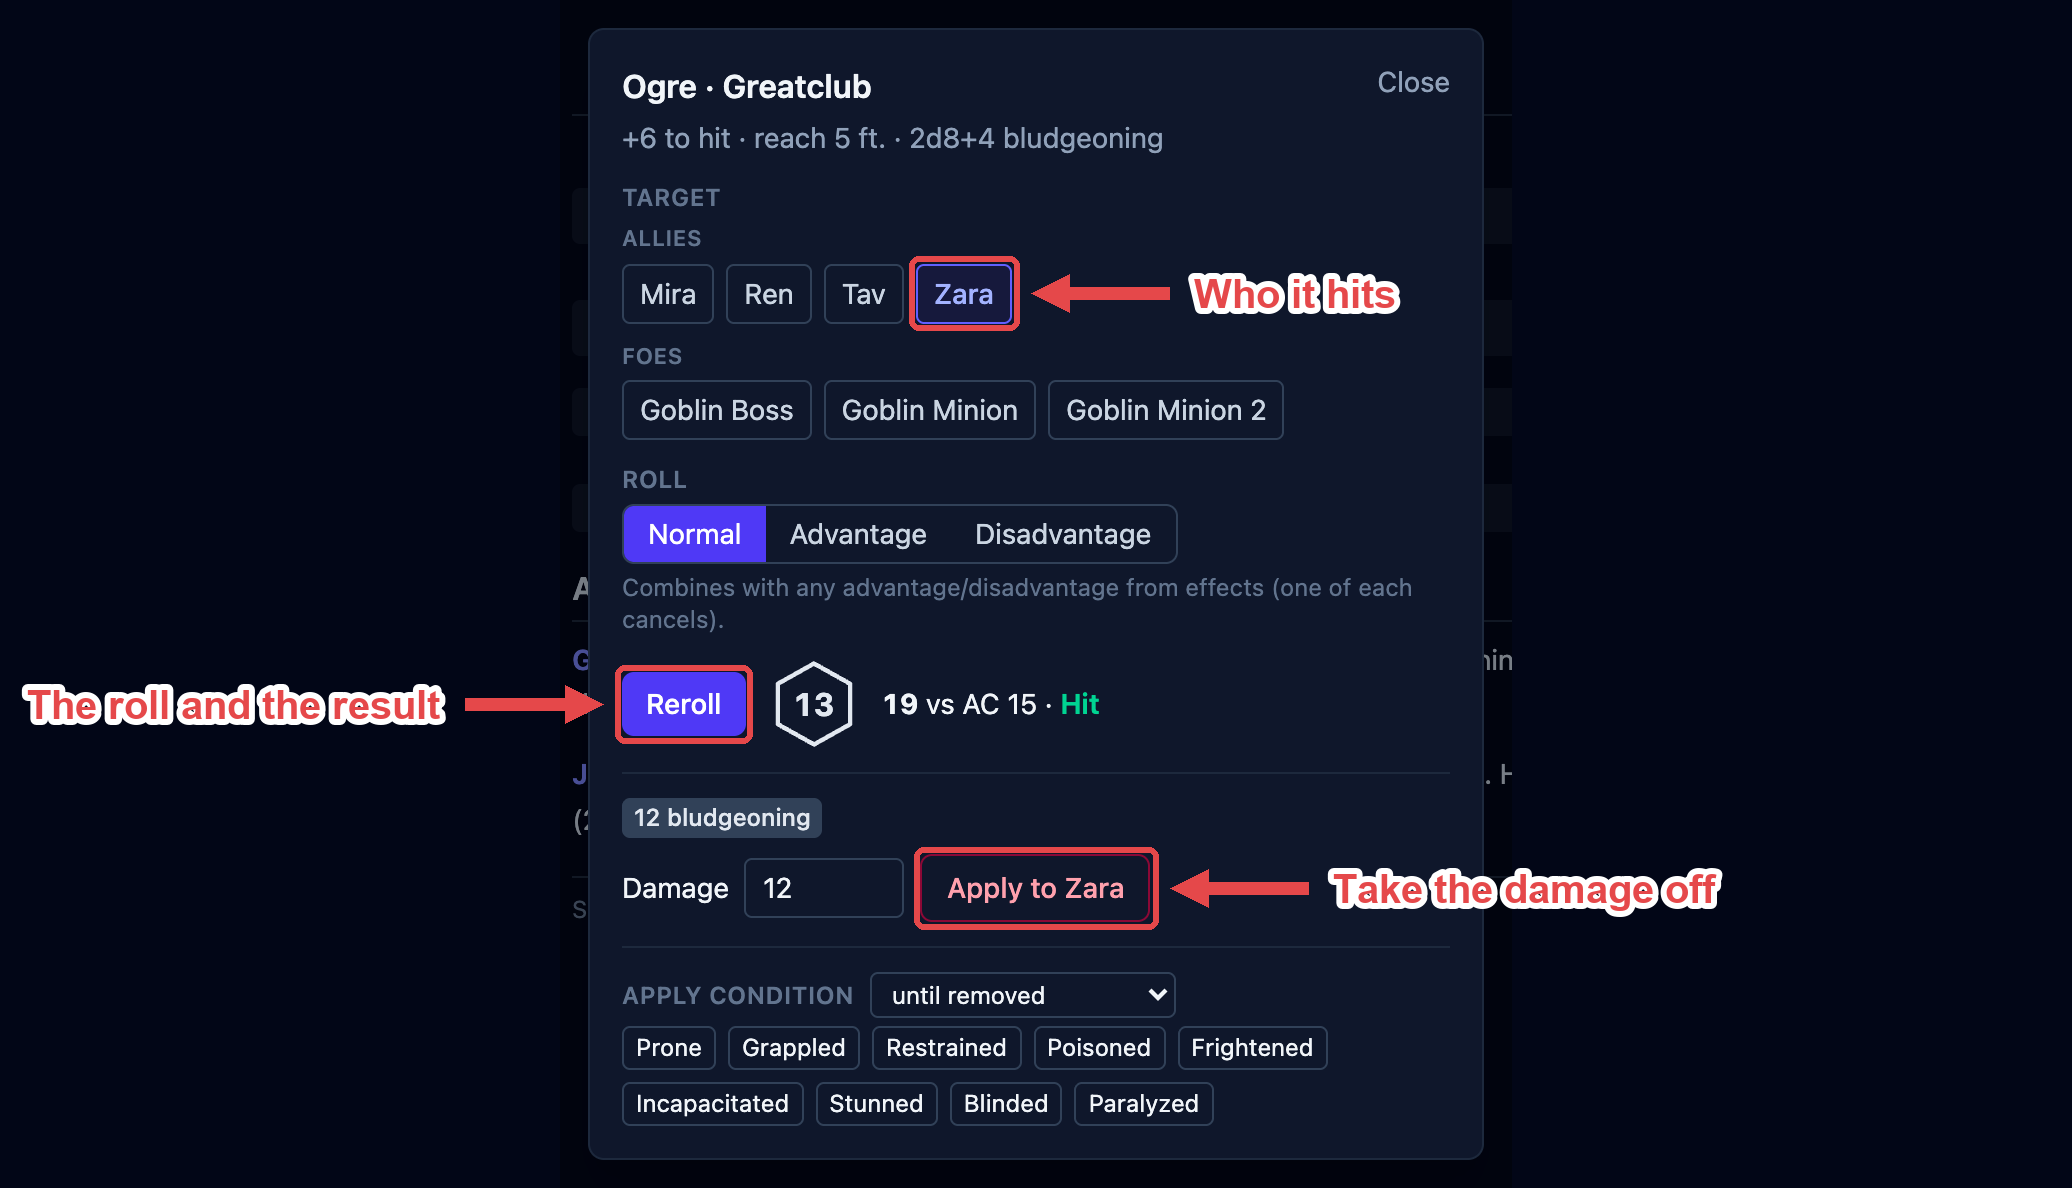
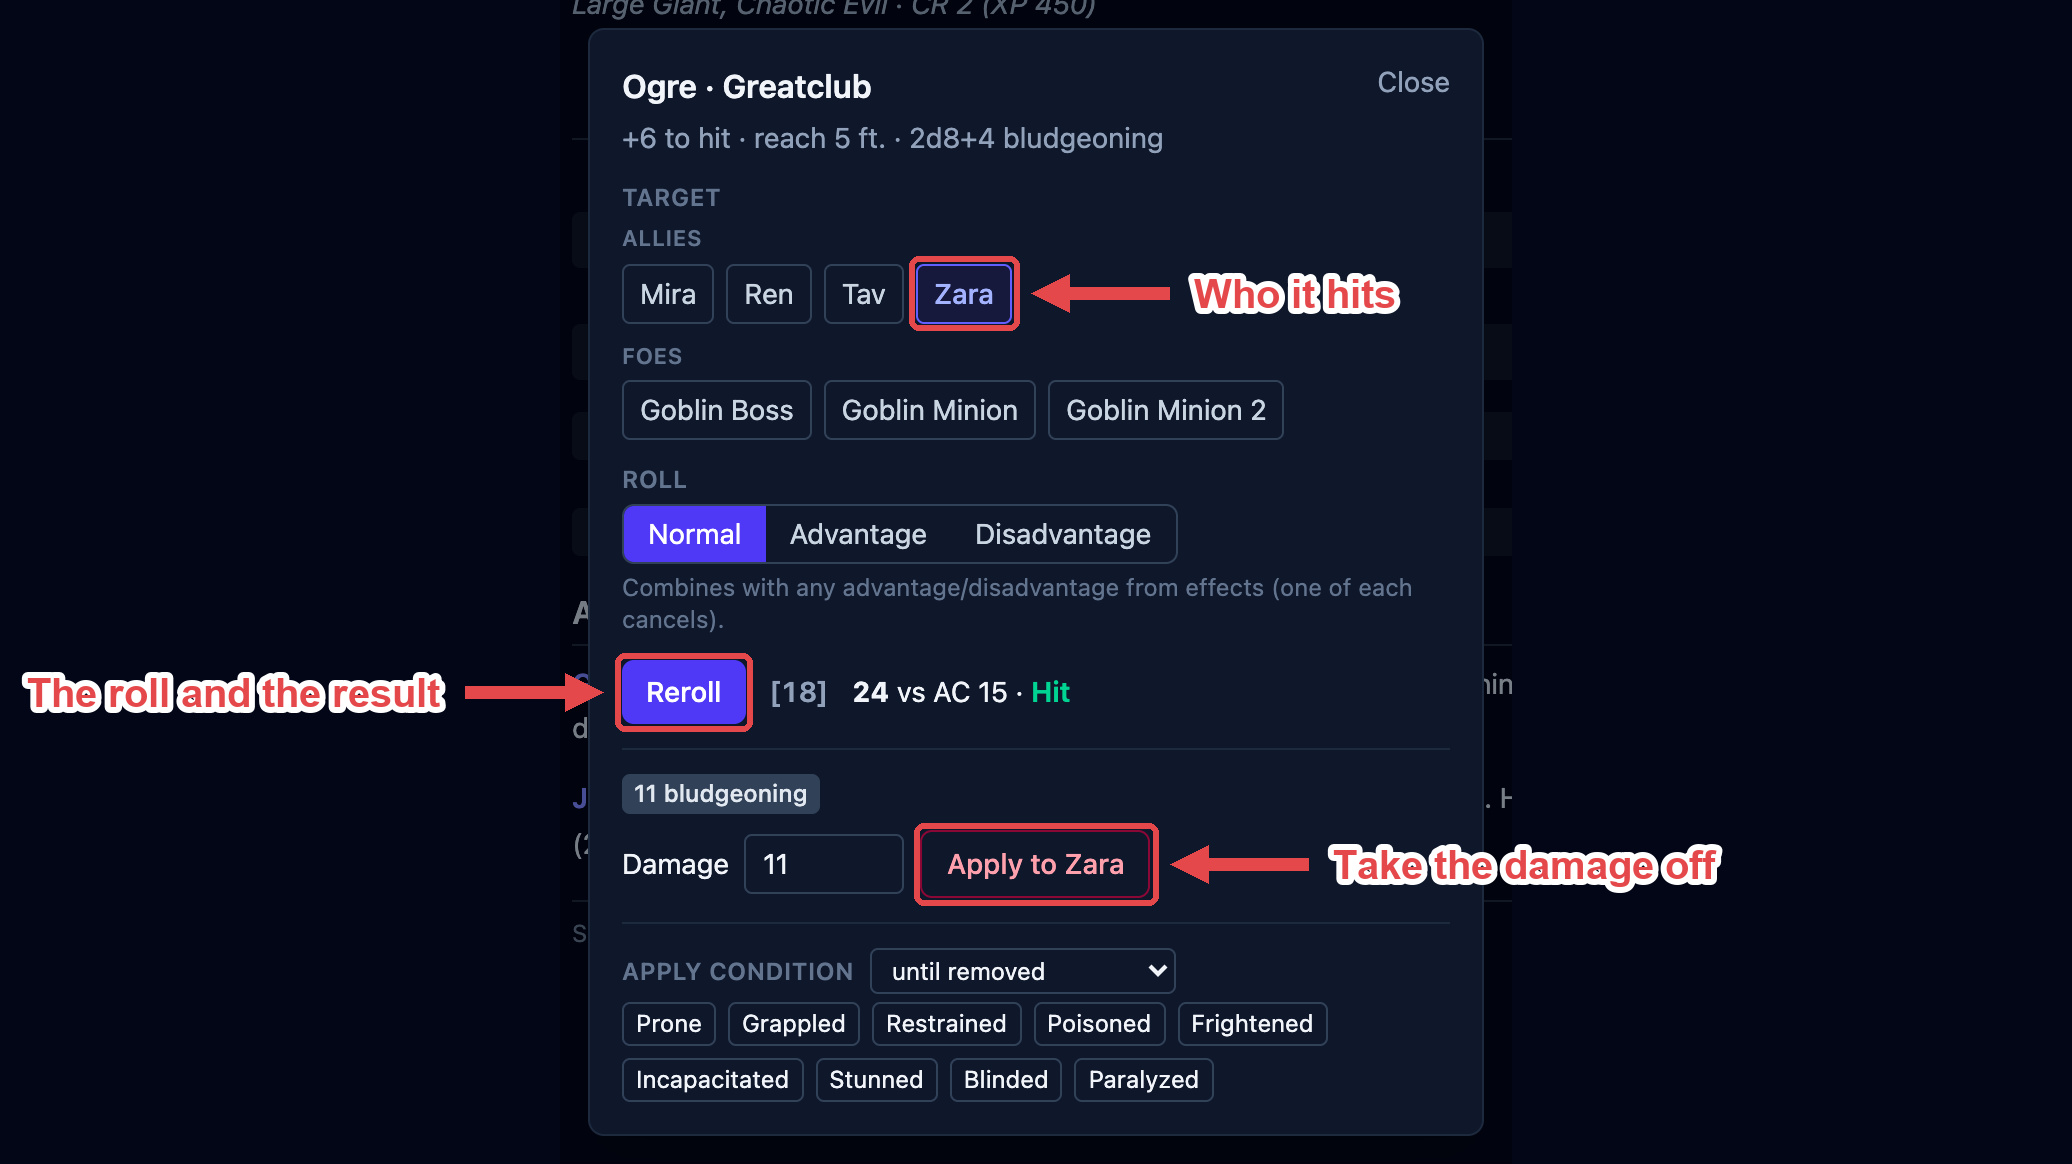
App: show rolled dice as plain numbers
The d20 spun through cosmetic faces for 800ms before settling, and the
result line, the damage and the condition chips all waited on it — so
every attack cost most of a second before the GM could read it or act.
The spin was decoration; the number is the information.

The die graphic and its animation are gone. A roll now shows its natural
d20 in brackets, the way the game log already writes one, next to the
total and the outcome. Everything that was gated behind the settle
appears as soon as the roll lands.

DieRoll.tsx and lib/motion.ts go with it — prefers-reduced-motion was
only ever consulted to skip this spin. Handbook and site captures that
showed a die are re-shot.

diff --git a/src/components/ActionResolver.tsx b/src/components/ActionResolver.tsx
@@ -1,7 +1,7 @@
 // SPDX-License-Identifier: AGPL-3.0-or-later
 // Copyright (C) 2026 OpenFray contributors
 
-import { useEffect, useRef, useState, type ReactNode } from 'react'
+import { useRef, useState, type ReactNode } from 'react'
 import type { Action, SaveOutcome } from '../schema/action.ts'
 import type { Combatant, MonsterCombatant } from '../schema/combatant.ts'
 import type { ConditionName, EffectDuration } from '../schema/effect.ts'
@@ -40,8 +40,6 @@ import {
 import { useDismiss } from '../hooks/useDismiss.ts'
 import { ConcentrationPrompt } from './ConcentrationPrompt.tsx'
 import { TargetChips } from './TargetChips.tsx'
-import { DieRoll, SPIN_MS } from './DieRoll.tsx'
-import { prefersReducedMotion } from '../lib/motion.ts'
 import type { OnRoll } from './GameLog.tsx'
 import { track, EVENTS } from '../lib/analytics.ts'
 
@@ -106,7 +104,7 @@ interface ResolverProps {
 
 /**
  * Resolve a creature's action against the board. Attacks pick one target, roll
- * to-hit (animated), then editable damage to apply. Save / area actions pick any
+ * to-hit, then editable damage to apply. Save / area actions pick any
  * number of targets, resolve each save (monsters auto-roll; the GM records a PC's
  * own roll), and apply per-target damage. Monster resistances/immunities are
  * applied automatically; a PC's are the GM's to enter. Damage is never applied
@@ -205,6 +203,23 @@ const DAMAGE_TONE: Partial<Record<DamageType, string>> = {
   necrotic: 'bg-purple-200 text-purple-900 dark:bg-purple-900/60 dark:text-purple-200',
   psychic: 'bg-fuchsia-200 text-fuchsia-900 dark:bg-fuchsia-900/60 dark:text-fuchsia-200',
   radiant: 'bg-amber-200 text-amber-900 dark:bg-amber-900/60 dark:text-amber-200',
+}
+
+/** The natural d20 behind a roll, in brackets like the game log writes it. */
+function NaturalRoll({
+  value,
+  tone = 'normal',
+}: {
+  value: number
+  tone?: 'normal' | 'crit' | 'fumble'
+}) {
+  const toneClass =
+    tone === 'crit'
+      ? 'text-emerald-600 dark:text-emerald-400'
+      : tone === 'fumble'
+        ? 'text-rose-600 dark:text-rose-400'
+        : 'text-slate-500 dark:text-slate-400'
+  return <span className={`text-sm font-semibold tabular-nums ${toneClass}`}>[{value}]</span>
 }
 
 /** Colored pill for one damage component: amount, type, and any resist/immune/vuln note. */
@@ -361,8 +376,6 @@ function AttackResolver({
   // Casterless cast: the GM supplies the spell attack bonus (the spell doesn't own
   // it, the caster does). With an attacker, the action already carries its to-hit.
   const [bonus, setBonus] = useState(String(action.toHit ?? 0))
-  const [spinKey, setSpinKey] = useState(0)
-  const [revealed, setRevealed] = useState(false)
   const [attack, setAttack] = useState<{
     result: RollResult
     applied: AppliedEffect[]
@@ -378,9 +391,6 @@ function AttackResolver({
   const [adv, setAdv] = useState<'normal' | 'advantage' | 'disadvantage'>('normal')
   const [conc, setConc] = useState<{ dc: number; damage: number } | null>(null)
   const [note, setNote] = useState<string | null>(null)
-  const timer = useRef<number | undefined>(undefined)
-
-  useEffect(() => () => window.clearTimeout(timer.current), [])
 
   const target = targets.find((t) => selected.has(t.combatantId)) ?? null
   const title = attacker ? `${nameOf(attacker)} · ${action.name}` : `Cast ${action.name}`
@@ -419,8 +429,6 @@ function AttackResolver({
     const dmg = damageAgainst(target, components)
     setAttack({ result, applied, target, d20, damage: dmg, crit, autoCrit })
     setDamage(String(dmg.reduce((s, d) => s + d.amount, 0)))
-    setSpinKey((k) => k + 1)
-    setRevealed(false)
     setConc(null)
     setNote(null)
     // One merged entry per attack: the to-hit roll, the outcome, and the rolled
@@ -439,11 +447,6 @@ function AttackResolver({
       },
     })
     onUse?.()
-    window.clearTimeout(timer.current)
-    timer.current = window.setTimeout(
-      () => setRevealed(true),
-      prefersReducedMotion() ? 0 : SPIN_MS + 60,
-    )
   }
 
   const hit = attack
@@ -574,13 +577,12 @@ function AttackResolver({
           {attack ? 'Reroll' : 'Roll attack'}
         </button>
         {attack && (
-          <DieRoll
+          <NaturalRoll
             value={attack.d20}
-            spinKey={spinKey}
             tone={attack.crit ? 'crit' : attack.result.fumble ? 'fumble' : 'normal'}
           />
         )}
-        {revealed && attack && (
+        {attack && (
           <span className="text-sm">
             <span className="font-bold tabular-nums">{attack.result.total}</span> vs AC{' '}
             {acOf(attack.target)} ·{' '}
@@ -609,13 +611,13 @@ function AttackResolver({
         )}
       </div>
 
-      {revealed && attack && attack.applied.length > 0 && (
+      {attack && attack.applied.length > 0 && (
         <p className="mt-1 text-xs text-slate-500 dark:text-slate-400">
           {attack.applied.map(describeApplied).join(' · ')}
         </p>
       )}
 
-      {revealed && attack && (action.damage?.length ?? 0) > 0 && (
+      {attack && (action.damage?.length ?? 0) > 0 && (
         <div className="mt-3 border-t border-slate-200 pt-3 dark:border-slate-800">
           <div className="mb-2 flex flex-wrap gap-1.5">
             {attack.damage.map((d, i) => (
@@ -649,7 +651,7 @@ function AttackResolver({
         </div>
       )}
 
-      {revealed && attack && (
+      {attack && (
         <>
           <ConditionChips
             onApply={applyCondition}
@@ -715,7 +717,6 @@ export function SaveResolver({
   const [rows, setRows] = useState<Record<string, SaveRow>>({})
   const [area, setArea] = useState<RolledDamage[]>([])
   const [resolved, setResolved] = useState(false)
-  const [spinKey, setSpinKey] = useState(0)
   const [pending, setPending] = useState<{ combatant: Combatant; dc: number; damage: number }[]>([])
   const [note, setNote] = useState<string | null>(null)
 
@@ -800,7 +801,6 @@ export function SaveResolver({
       }
     }
     setRows(next)
-    setSpinKey((k) => k + 1)
     setResolved(true)
     onUse?.()
   }
@@ -1030,7 +1030,7 @@ export function SaveResolver({
                 >
                   <span className="flex items-center gap-2">
                     <span className="font-medium">{nameOf(c)}</span>
-                    {row?.d20 != null && <DieRoll value={row.d20} spinKey={spinKey} />}
+                    {row?.d20 != null && <NaturalRoll value={row.d20} />}
                     {row?.total != null && (
                       <span className="tabular-nums text-slate-500 dark:text-slate-400">
                         {row.total}
